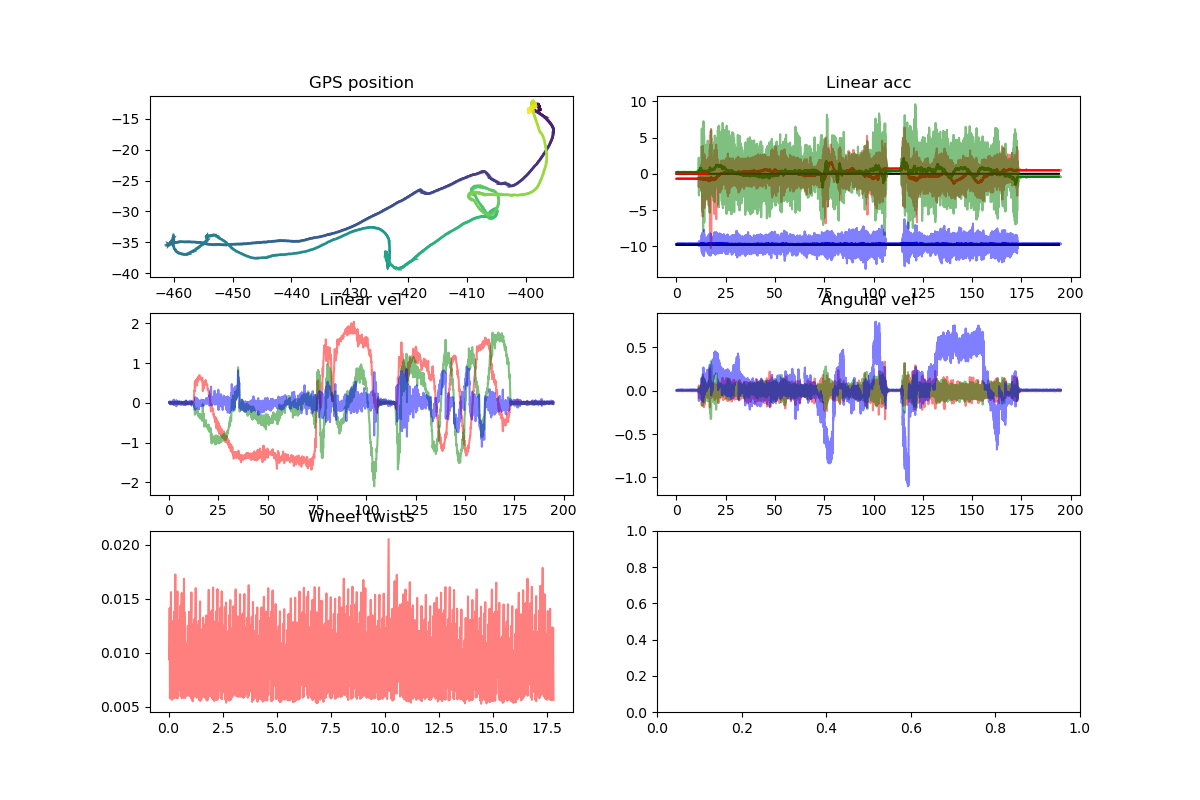
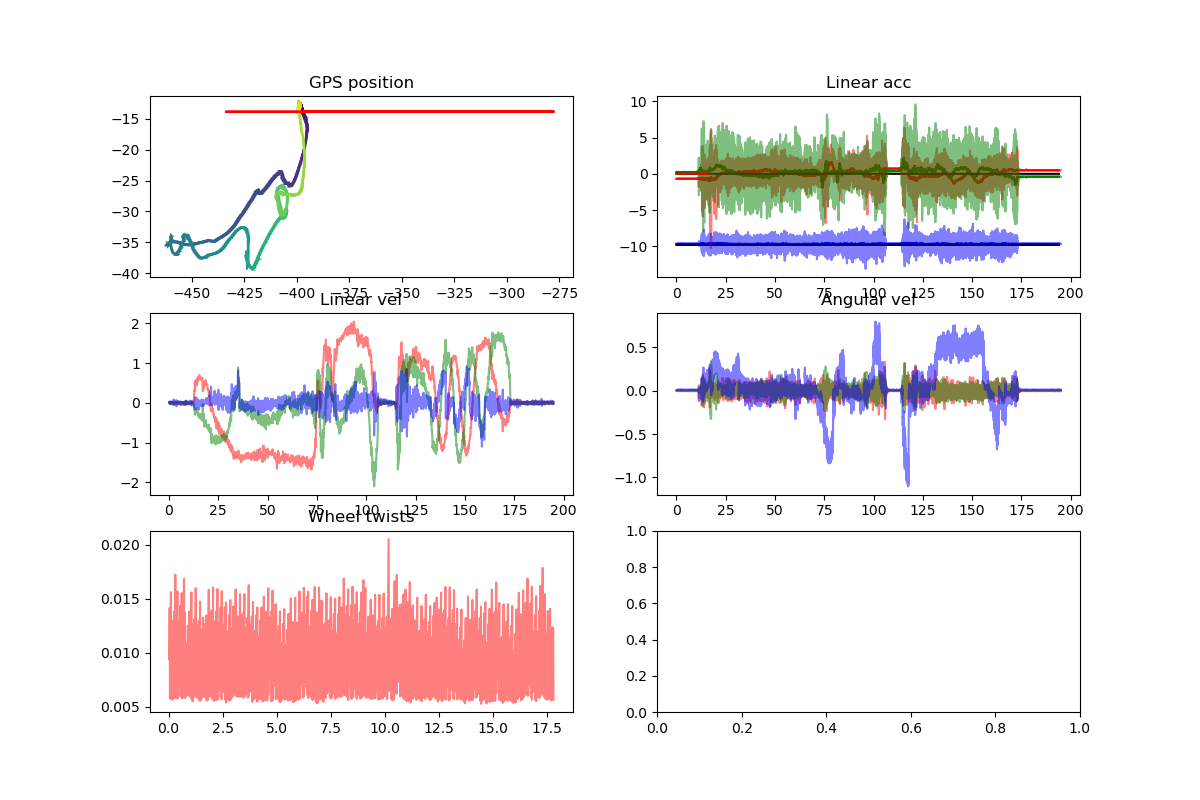
Tweak particle filter to incorporate IMU (unfinished)

Changed region(s): [[0.1233, 0.125, 0.4933, 0.375]]

diff --git a/src/perception/state_estimation/state_estimation/particle_filter.py b/src/perception/state_estimation/state_estimation/particle_filter.py
@@ -403,33 +403,8 @@ ax5.set_title("Wheel twists")
 print(wheels_df["linear_vel_x"])
 
 
-plt.savefig("sensor_data.png")
-
 # plt.plot(fixes_df["t"].to_numpy(), fixes_df["speed"].to_numpy())
 # plt.show()
-
-# Sanity check of IMU data
-x = []
-
-exit()
-
-# Finally, run the filter
-initial_x = [
-    fixes_df["pos_x"].iloc[0],
-    fixes_df["pos_y"].iloc[0],
-    fixes_df["yaw"].iloc[0],
-    fixes_df["speed"].iloc[0],
-]
-initial_std = [5.0, 5.0, np.pi / 4, 1.0]
-u_std = [0.2, 0.05]
-sensor_std = [5.0, 5.0]
-N = 500
-
-print(f"Initial x: {initial_x}")
-particles = create_gaussian_particles(mean=initial_x, std=initial_std, N=N)
-weights = np.ones(N) / N
-xs = []
-plotParticles(particles, weights, xs)
 
 
 def atTime(df: pd.DataFrame, t: float, tol=0.1):
@@ -440,6 +415,71 @@ def atTime(df: pd.DataFrame, t: float, tol=0.1):
         return row
     except IndexError as e:
         return None
+
+
+# Sanity check of IMU data
+x = np.zeros(5)
+x = [
+    fixes_df["pos_x"].iloc[0],
+    fixes_df["pos_y"].iloc[0],
+    0.0,
+    0.0,
+    fixes_df["yaw"].iloc[0],
+]
+
+dt = 0.1
+timesteps = np.arange(start_time, end_time, dt)
+
+xs = []
+
+linear_x_mult = 1
+linear_y_mult = 0
+angular_z_mult = 1
+
+for t in tqdm(timesteps):
+
+    imu = atTime(imu_df, t)
+
+    prev_t = imu["t"]
+
+    # Start by updating velocities
+    x[2] += imu["linear_acc_x"] * dt * linear_x_mult
+    x[3] += imu["linear_acc_y"] * dt * linear_y_mult
+
+    # Now update positions
+    x[0] += x[2] * dt * np.cos(x[4])
+    x[1] += x[3] * dt * np.sin(x[4])
+
+    # Finally, update yaw
+    x[4] += imu["angular_vel_z"] * angular_z_mult
+
+    xs.append(x.copy())
+
+xs = np.asarray(xs)
+print(xs)
+ax1.plot(xs[:, 0], xs[:, 1], c="red")
+
+plt.savefig("sensor_data.png")
+
+exit()
+
+# Finally, run the filter
+initial_x = [
+    fixes_df["pos_x"].iloc[0],
+    fixes_df["pos_y"].iloc[0],
+    fixes_df["yaw"].iloc[0],
+    fixes_df["speed"].iloc[0],
+]
+initial_std = [5.0, 5.0, 1.0, 1.0, np.pi / 4]  # x, y, dx, dy, yaw
+u_std = [0.2, 0.05]
+sensor_std = [5.0, 5.0]
+N = 500
+
+print(f"Initial x: {initial_x}")
+particles = create_gaussian_particles(mean=initial_x, std=initial_std, N=N)
+weights = np.ones(N) / N
+xs = []
+plotParticles(particles, weights, xs)
 
 
 dt = 0.1
